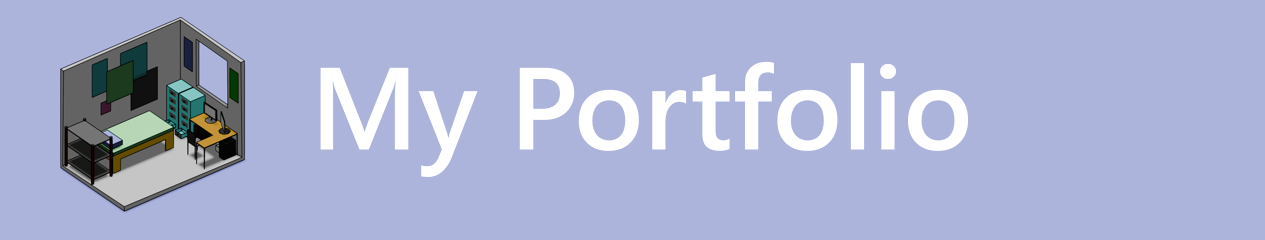
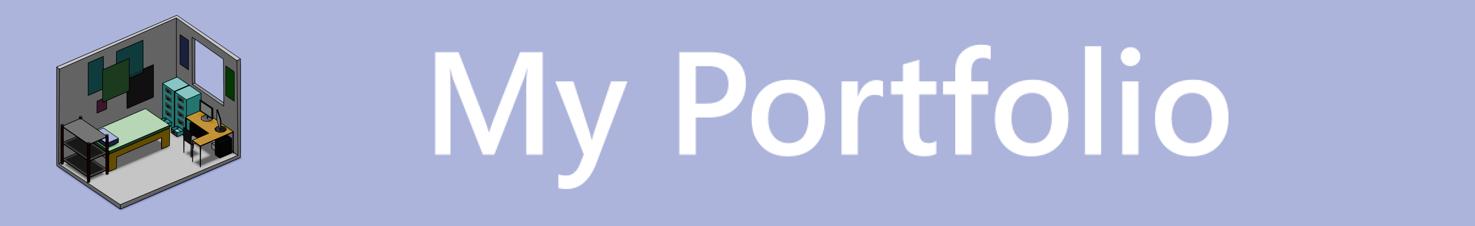
Added Dedicated Images and Dark Mode
added images so 3rd party hosting isnt needed
Dark Mode

Changed region(s): [[0.2466, 0.1858, 0.8324, 0.8363], [0.0308, 0.0619, 0.2158, 0.9292]]

diff --git a/index.html b/index.html
@@ -18,6 +18,8 @@
     <a href="#projects">Projects</a>
     <a href="#skills">Skills</a>
     <a href="#contact">Contact</a>
+    <label for="theme-toggle" class="theme-label">🌙 / ☀</label>
+    <input type="checkbox" id="theme-toggle">
 </nav>
 
 <div class="container">
@@ -25,53 +27,50 @@
     <section id="about" class="section">
         <h2>About Me</h2>
         <div class="image-box">
-            <img src="https://media.discordapp.net/attachments/825411541037350943/1497200907073622236/Screenshot_2026-04-24_194004.png?ex=69eca880&is=69eb5700&hm=d96d25eb321490e3fe7eeae2ec9d7b500c2fae176f4ab1208ac6864698b78a9f&=&format=webp&quality=lossless">
+            <img src="images/banner.png">
         </div>
         <p>Hi, I'm Dominic Gumapac! 👋
             I am a passionate IT student at Xavier University, driven by a curiosity for technology and a love for writing. My journey involves delving into the world of computer science, exploring new ideas, and sharing my insights with the community.</p>
-            <a href="https://github.com/DominicGumapac">My Github Page</a>
+        <a href="https://github.com/DominicGumapac">My Github Page</a>
 
-            <p>🚀 About Me</p>
-            <p>🔭 I'm currently pursuing my Bachelor's Degree in Information Technology at Xavier University.</p>
-            <p>🌱 I’m currently learning Full Stack Web Development and API creation.</p>
-            <p>💬 Ask me about making games because I am not that well versed in it.</p>
+        <p>🚀 About Me</p>
+        <p>🔭 I'm currently pursuing my Bachelor's Degree in Information Technology at Xavier University.</p>
+        <p>🌱 I'm currently learning Full Stack Web Development and API creation.</p>
+        <p>💬 Ask me about making games because I am not that well versed in it.</p>
     </section>
 
-   <section id="projects" class="section">
-    <h2>Projects</h2>
+    <section id="projects" class="section">
+        <h2>Projects</h2>
 
-    <div class="projects">
+        <div class="projects">
 
-        <!-- PROJECT 1 -->
-        <div class="card">
-            <div class="image-box">
-                <img src="https://media.discordapp.net/attachments/825411541037350943/1497201829342089270/Screenshot_2026-04-24_194434.png?ex=69eca95c&is=69eb57dc&hm=db4c18717e928e9752b5af5849eb9e255b0a7c769287d9c3b708f02c6c49dae9&=&format=webp&quality=lossless">
+            <div class="card">
+                <div class="image-box">
+                    <img src="./images/fridge.png" alt="3D Fridge">
+                </div>
+                <h3>3D Fridge</h3>
+                <p>A simple 3D Model of a fridge in Blender that I used with grease pencil. This was supposed to be my original idea for my Filipino Semi Final but I scrapped it.</p>
             </div>
-            <h3>3D Fridge</h3>
-            <p>A simple 3D Model of a fridge in Blender that I used with grease pencil. This was supposed to be my original idea for my Filipino Semi Final but I scrapped it.</p>
-        </div>
 
-        <!-- PROJECT 2 -->
-        <div class="card">
-            <div class="image-box">
-                <img src="https://media.discordapp.net/attachments/825411541037350943/1497204329604448256/Screenshot_2026-04-24_194434.png?ex=69ecabb0&is=69eb5a30&hm=51869fac5b1f2b6ba482ff35ff87ee411f3d31ca5f4f3ff272627ed2a9a4307c&=&format=webp&quality=lossless">
+            <div class="card">
+                <div class="image-box">
+                    <img src="./images/patrick.png" alt="First HTML Project">
+                </div>
+                <h3>First HTML Project</h3>
+                <p>The First HTML project of the semester that I did which I did not take seriously.</p>
             </div>
-            <h3>First HTML Project</h3>
-            <p>The First HTML project of the semester that I did which I did not take seriously.</p>
-        </div>
 
-        <!-- PROJECT 3 -->
-        <div class="card">
-            <div class="image-box">
-                <img src="https://media.discordapp.net/attachments/825411541037350943/1497207233686274088/Screenshot_2026-04-24_1.png?ex=69ecae65&is=69eb5ce5&hm=c4c7a3bf69e74b0fdf5f87ac2520985640e65829f7f46333c1f49ecbb823a455&=&format=webp&quality=lossless">
+            <div class="card">
+                <div class="image-box">
+                    <img src="./images/valentine.png" alt="Valentines Card">
+                </div>
+                <h3>Valentines Card</h3>
+                <p>A Valentines Card made with the help of AI for us to further understand how HTML and CSS works when making websites.</p>
+                <a href="https://codepen.io/DOMINIC-KIT-GUMAPAC/pen/wBWOEmq">The Valentines Card</a>
             </div>
-            <h3>Valentines Card</h3>
-            <p>A Valentines Card made using with the help of AI for us to further understand how HTML and CSS works when making websites</p>
-            <a href="https://codepen.io/DOMINIC-KIT-GUMAPAC/pen/wBWOEmq">The Valentines Card</a>
-        </div>
 
-    </div>
-</section>
+        </div>
+    </section>
 
     <section id="skills" class="section">
         <h2>Skills or Interests (That I have learned or am interested in)</h2>
@@ -90,7 +89,7 @@
             <div class="skill">First Aid</div>
             <div class="skill">Genshin Impact</div>
             <div class="skill">Maya 3D</div>
-            <div class="skill">Soddering</div>
+            <div class="skill">Soldering</div>
             <div class="skill">Plowing</div>
             <div class="skill">Sowing</div>
             <div class="skill">Functionally Literate</div>
@@ -100,8 +99,6 @@
             <div class="skill">Theorycrafting</div>
             <div class="skill">Cat</div>
             <div class="skill">Wiki Roulette</div>
-
-
         </div>
     </section>
 
@@ -112,5 +109,10 @@
     </section>
 
 </div>
+
+<footer>
+    <p>Made by Dominic Gumapac</p>
+</footer>
+
 </body>
 </html>

diff --git a/styles.css b/styles.css
@@ -5,12 +5,42 @@
     box-sizing: border-box;
 }
 
+/* LIGHT MODE (default) */
 body {
     font-family: Arial, Helvetica, sans-serif;
-    background: #5a5a5a;
+    background: #f0f0f0;
     color: #333;
     line-height: 1.6;
-    overflow-x: hidden;
+}
+
+/* DARK MODE — triggered by checkbox */
+#theme-toggle { display: none; }
+
+#theme-toggle:checked ~ * body,
+body:has(#theme-toggle:checked) {
+    background: #5a5a5a;
+    color: #f0f0f0;
+}
+
+body:has(#theme-toggle:checked) .section {
+    background: #3a3a3a;
+    color: #f0f0f0;
+}
+
+body:has(#theme-toggle:checked) header {
+    background: linear-gradient(135deg, #4a0090, #6e2a8d);
+}
+
+body:has(#theme-toggle:checked) nav {
+    background: #3b0070;
+}
+
+body:has(#theme-toggle:checked) .card {
+    background: #2e2e2e;
+}
+
+body:has(#theme-toggle:checked) footer {
+    background: #3b0070;
 }
 
 /* HEADER */
@@ -53,15 +83,28 @@ nav a:hover {
     color: #d8b4fe;
 }
 
+.theme-label {
+    color: white;
+    cursor: pointer;
+    font-size: 0.9rem;
+    padding: 4px 10px;
+    border: 1px solid rgba(255,255,255,0.4);
+    border-radius: 20px;
+    user-select: none;
+}
+
+.theme-label:hover {
+    background: rgba(255,255,255,0.1);
+}
+
 /* MAIN CONTAINER */
 .container {
     width: 100%;
-    max-width: 1200px;
-    margin: 0 auto; /* center */
+    max-width: 900px;
+    margin: 0 auto;
     padding: 30px 20px;
-
-    display: grid;
-    grid-template-columns: repeat(auto-fit, minmax(280px, 1fr));
+    display: flex;
+    flex-direction: column;
     gap: 30px;
 }
 
@@ -136,7 +179,7 @@ footer {
     padding: 20px;
     background: #4b0082;
     color: white;
-    margin-top: 40px;
+    margin-top: 10px;
 }
 
 /* TABLET */
@@ -146,7 +189,7 @@ footer {
     }
 
     .container {
-        grid-template-columns: 1fr;
+        padding: 20px 15px;
     }
 }
 
